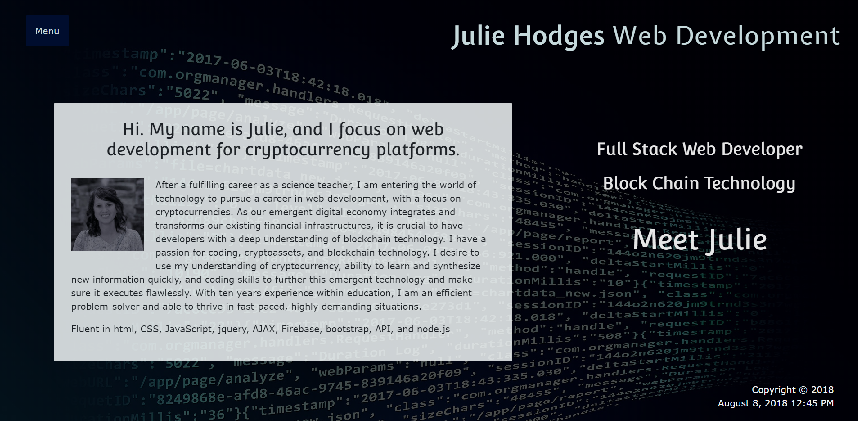
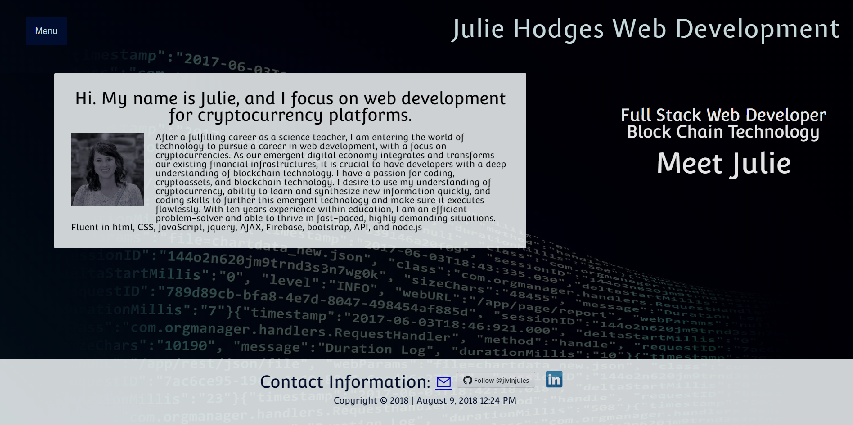
fully functional, media responsive

diff --git a/portfolio.html b/portfolio.html
@@ -23,7 +23,7 @@
 </head>
 
 <body>
-   
+
     <div class="content">
         <header>
 
@@ -32,7 +32,7 @@
                     <button class="dropbtn">Menu</button>
                     <div class="dropdown-content">
                         <a class="dropdown-item" href="index.html">Homepage</a>
-                        
+
                     </div>
                 </div>
                 <span class="navbar-brand">
@@ -41,6 +41,81 @@
             </div>
         </header>
 
+        <!--These divs are hidden until clicked on. They contain info about the websites-->
+        <div id="train-info">
+            <p id="about">
+                Built with HTML, CSS, JavaScript, jquery, Firebase, Google Fonts, and moment.js, Train Scheduler allows the user to operate
+                a fictional train station. Trains and their respective arrival times are stored in Firebase, and moment.js
+                controls the timing.</p>
+            <br>
+            <a href="https://jivinjules.github.io/Train-Schedule/">Schedule Trains here!</a>
+            <br>
+            <br>
+            <button id="return-btn1">Return to Portfolio</button>
+        </div>
+
+        <div id="hangman-info">
+            <p id="about">
+                Built with HTML, CSS, and JavaScript, Hangman randomly generates a word, converts it to blanks, and provides the user 10
+                guesses. If correct, the user will be provided with an image of the word.</p>
+            <br>
+            <a href="https://jivinjules.github.io/Hangman/">Play a game of Hangman!</a>
+            <br>
+            <br>
+            <button id="return-btn2">Return to Portfolio</button>
+        </div>
+
+        <div id="wfddfw-info">
+            <p id="about">
+                What's for Dinner, DFW? is a collaborative effort of four developers. The site uses Zomato API, Yummly API, and Google Maps
+                API make dinnertime easy for residents of DFW. The user can choose a cuisine and a city and is offered recipes
+                to make (if they decide to eat at home) or restaurants which offer that cuisine (if they decide to eat out),
+                and Google Maps shows the exact location of the restaurant.</p>
+            <br>
+            <a href="https://shayshae5482.github.io/group-project/">Check out What's For Dinner, DFW?</a>
+            <br>
+            <br>
+            <button id="return-btn3">Return to Portfolio</button>
+        </div>
+
+        <div id="crystal-info">
+            <p id="about">
+                What's for Dinner, DFW? is a collaborative effort of four developers. The site uses Zomato API, Yummly API, and Google Maps
+                API to make dinnertime easy for residents of DFW. The user, after selecting a cuisine and a city, is offered
+                recipes to make (if they decide to eat at home) or restaurants which offer that cuisine (if they decide to
+                eat out). Google Maps shows the exact location of the restaurant.</p>
+            <br>
+            <a href="https://jivinjules.github.io/CrystalCounter">Play Crystal Counter!</a>
+            <br>
+            <br>
+            <button id="return-btn4">Return to Portfolio</button>
+        </div>
+
+        <div id="giphy-info">
+            <p id="about">
+                This giftastic site employs an AJAX call to the Giphy API to generate random Disney gifs. The user can start and stop Gifs
+                as well as search and generate new Gif's.</p>
+            <br>
+            <a href="https://jivinjules.github.io/Giphy/">Visit the Giftastic site</a>
+            <br>
+            <br>
+            <button id="return-btn5">Return to Portfolio</button>
+        </div>
+
+        <div id="trivia-info">
+            <p id="about">
+                The Periodic Table Trivia Game is a timed, multiple choice trivia game. Built with jquery timers, the user has 15 seconds
+                to correctly choose an answer. The game keeps track of the score and also provides the correct answer and
+                image.</p>
+            <br>
+            <a href="https://jivinjules.github.io/TriviaGame/">Play the Trivia Game!</a>
+            <br>
+            <br>
+            <button id="return-btn6">Return to Portfolio</button>
+        </div>
+
+
+        <!--This is the slideshow container-->
         <div class="slideshow-container">
 
             <div class="mySlides fade">
@@ -74,10 +149,10 @@
             </div>
 
             <div class="mySlides fade">
-                    <div class="numbertext">6 / 6</div>
-                    <img src="assets/images/triviagame-screenshot.png" style="width:100%">
-                    <div class="text6">Click here to learn about Periodic Table Trivia</div>
-                </div>
+                <div class="numbertext">6 / 6</div>
+                <img src="assets/images/triviagame-screenshot.png" style="width:100%">
+                <div class="text6">Click here to learn about Periodic Table Trivia</div>
+            </div>
 
             <a class="prev" onclick="plusSlides(-1)">&#10094;</a>
             <a class="next" onclick="plusSlides(1)">&#10095;</a>
@@ -124,37 +199,37 @@
         </script>
 
 
-<footer>
-        <div id="contact-info">
-            <div class="row1">
-                <div class="col-md-12">
-                    <p id="contact">Contact Information:
-                        <a class="email" href="mailto:juliehodges05@gmail.com?Subject=web%20development" target="_top">&#9993;</a>
-                        <a class="github-button" href="https://github.com/jivinjules" data-size="large" aria-label="Follow @ntkme on GitHub">Follow @jivinjules</a>
-                        <class="LI-profile-badge" data-version="v1" data-size="medium" data-locale="en_US" data-type="vertical" data-theme="light"
-                            data-vanity="julie-hodges-920391159">
-                            <a class="LI-simple-link" href='https://www.linkedin.com/in/julie-hodges-920391159?trk=profile-badge'>
-                                <img class="linkedin" src="assets/images/linkedin-screenshot.jpg">
-                            </a>
-                    </p>
+        <footer>
+            <div id="contact-info">
+                <div class="row1">
+                    <div class="col-md-12">
+                        <p id="contact">Contact Information:
+                            <a class="email" href="mailto:juliehodges05@gmail.com?Subject=web%20development" target="_top">&#9993;</a>
+                            <a class="github-button" href="https://github.com/jivinjules" data-size="large" aria-label="Follow @ntkme on GitHub">Follow @jivinjules</a>
+                            <class="LI-profile-badge" data-version="v1" data-size="medium" data-locale="en_US" data-type="vertical" data-theme="light"
+                                data-vanity="julie-hodges-920391159">
+                                <a class="LI-simple-link" href='https://www.linkedin.com/in/julie-hodges-920391159?trk=profile-badge'>
+                                    <img class="linkedin" src="assets/images/linkedin-screenshot.jpg">
+                                </a>
+                        </p>
+                    </div>
                 </div>
             </div>
-        </div>
-        <div class="row2">
-            <div class="col-md-12">
-                Copyright &copy 2018 |
-                <class id="clock" class="clock"> loading ...
+            <div class="row2">
+                <div class="col-md-12">
+                    Copyright &copy 2018 |
+                    <class id="clock" class="clock"> loading ...
 
+                </div>
             </div>
-        </div>
-    </footer>
+        </footer>
 
-    <script src="assets/javascript/js.js"></script>
-    <script src="https://cdnjs.cloudflare.com/ajax/libs/popper.js/1.12.9/umd/popper.min.js" integrity="sha384-ApNbgh9B+Y1QKtv3Rn7W3mgPxhU9K/ScQsAP7hUibX39j7fakFPskvXusvfa0b4Q"
-        crossorigin="anonymous"></script>
-    <script type="text/javascript" src="https://platform.linkedin.com/badges/js/profile.js" async defer></script>
-    <!-- Place this tag in your head or just before your close body tag. -->
-    <script async defer src="https://buttons.github.io/buttons.js"></script>
+        <script src="assets/javascript/js.js"></script>
+        <script src="https://cdnjs.cloudflare.com/ajax/libs/popper.js/1.12.9/umd/popper.min.js" integrity="sha384-ApNbgh9B+Y1QKtv3Rn7W3mgPxhU9K/ScQsAP7hUibX39j7fakFPskvXusvfa0b4Q"
+            crossorigin="anonymous"></script>
+        <script type="text/javascript" src="https://platform.linkedin.com/badges/js/profile.js" async defer></script>
+        <!-- Place this tag in your head or just before your close body tag. -->
+        <script async defer src="https://buttons.github.io/buttons.js"></script>
 
 </body>
 

diff --git a/assets/javascript/js.js b/assets/javascript/js.js
@@ -1,27 +1,94 @@
 $(document).ready(function () {
   $("#intro-box").hide();
+  $("#train-info").hide();
+  $("#hangman-info").hide();
+  $("#wfddfw-info").hide();
+  $("#crystal-info").hide();
+  $("#giphy-info").hide();
+  $("#trivia-info").hide();
 
-//Adding moment.js to get clock at the top of the screen
-var currentTime = moment();
+  //Adding moment.js to get clock at the top of the screen
+  var currentTime = moment();
 
-//displays current time on the jumbotron
-$('#clock').html(moment(currentTime).format('MMMM D, YYYY LT'));
+  //displays current time on the jumbotron
+  $('#clock').html(moment(currentTime).format('MMMM D, YYYY LT'));
 
-function update() {
+  function update() {
     $('#clock').html(moment().format('MMMM D, YYYY LT'));
-}
-setInterval(update, 60000);
+  }
+  setInterval(update, 60000);
 
-$("#intro3").on("click", function() {
-  $(".front-picture").hide();
-  $("#intro-box").fadeIn();
-})
+  //Allows the user to see the intro box when they press "Meet Julie"
+  $("#intro3").on("click", function () {
+    $(".front-picture").hide();
+    $("#intro-box").fadeIn();
+  })
 
 
-// $(".text1").on("click", function() {
-// var infoForSites = $("<div>")
-// var
+  //Updates the portfolio page. 
+  //When the user clicks the "learn more about..." area, it reveals an info div
+  //When they press the return button, the div is hidden and goes back to the carousel
+  $(".text1").on("click", function () {
+    $(".slideshow-container").hide();
+    $("#train-info").fadeIn();
+    $("#return-btn1").on("click", function () {
+      $("#train-info").hide();
+      $(".slideshow-container").fadeIn();
+    });
 
-// })
+  });
+
+  $(".text2").on("click", function () {
+    $(".slideshow-container").hide();
+    $("#hangman-info").fadeIn();
+    $("#return-btn2").on("click", function () {
+      $("#hangman-info").hide();
+      $(".slideshow-container").fadeIn();
+    })
+
+  });
+
+  $(".text3").on("click", function () {
+    $(".slideshow-container").hide();
+    $("#wfddfw-info").fadeIn();
+    $("#return-btn3").on("click", function () {
+      $("#wfddfw-info").hide();
+      $(".slideshow-container").fadeIn();
+
+    });
+
+  });
+
+  $(".text4").on("click", function () {
+    $(".slideshow-container").hide();
+    $("#crystal-info").fadeIn();
+    $("#return-btn4").on("click", function () {
+      $("#crystal-info").hide();
+      $(".slideshow-container").fadeIn();
+
+    });
+
+  });
+
+  $(".text5").on("click", function () {
+    $(".slideshow-container").hide();
+    $("#giphy-info").fadeIn();
+    $("#return-btn5").on("click", function () {
+      $("#giphy-info").hide();
+      $(".slideshow-container").fadeIn();
+
+    });
+
+  });
+
+  $(".text6").on("click", function () {
+    $(".slideshow-container").hide();
+    $("#trivia-info").fadeIn();
+    $("#return-btn6").on("click", function () {
+      $("#trivia-info").hide();
+      $(".slideshow-container").fadeIn();
+    });
+
+  });
 
 })

diff --git a/assets/css/style.css b/assets/css/style.css
@@ -42,6 +42,16 @@ body {
     padding-right: 50px;
 }
 
+#return-btn1, #return-btn2, #return-btn3, #return-btn4, #return-btn5, #return-btn6 {
+    color: #c5d9dc;
+    padding: 5px;
+    font-size: 16px;
+    border: none;
+    background-color: #000d2e;
+    border-radius: 2px;
+    font-family: 'Convergence', sans-serif;
+}
+
 /* Style The Dropdown Button */
 .dropbtn {
     color: #c5d9dc;
@@ -107,6 +117,24 @@ body {
     padding: 0px 20px 20px 0px;
     float: left;
 }
+
+#train-info, #hangman-info, #giphy-info, #wfddfw-info, #trivia-info, #crystal-info {
+    max-width: 600px;
+    position: relative;
+    margin: auto;
+    margin-top: 50px;
+    background-color:#f2f7f8;
+    opacity: .85;
+    -moz-box-shadow:    inset 0 0 10px #f1f4f5;
+    -webkit-box-shadow: inset 0 0 10px #f1f4f5;
+    box-shadow:         inset 0 0 10px #f1f4f5;
+    border-radius: 2px;
+    color: #000d2e;
+    padding: 50px;
+    font-family: 'Convergence', sans-serif;
+    font-size: 20px;
+}
+
 * {box-sizing: border-box}
 body {font-family: 'Convergence', sans-serif}
 .mySlides {display: none}
@@ -118,6 +146,7 @@ img {vertical-align: middle;}
   position: relative;
   margin: auto;
   margin-top: 20px;
+
 }
 
 /* Next & previous buttons */
@@ -356,20 +385,27 @@ header {
      }
 
      footer {
-        height: 200px;
+        height: 180px;
     }
 
     .slideshow-container {
         max-width: 1000px;
         position: relative;
         margin: auto;
-        margin-top: 100px;
+        margin-top: 50px;
       }
 
       #contact{
         font-size: 25px;
         padding-right: 50px;
     }
+
+    #train-info, #hangman-info, #giphy-info, #wfddfw-info, #trivia-info, #crystal-info {
+        padding: 15px;
+        font-family: 'Convergence', sans-serif;
+        font-size: 15px;
+    }
+    
     
 }
    
